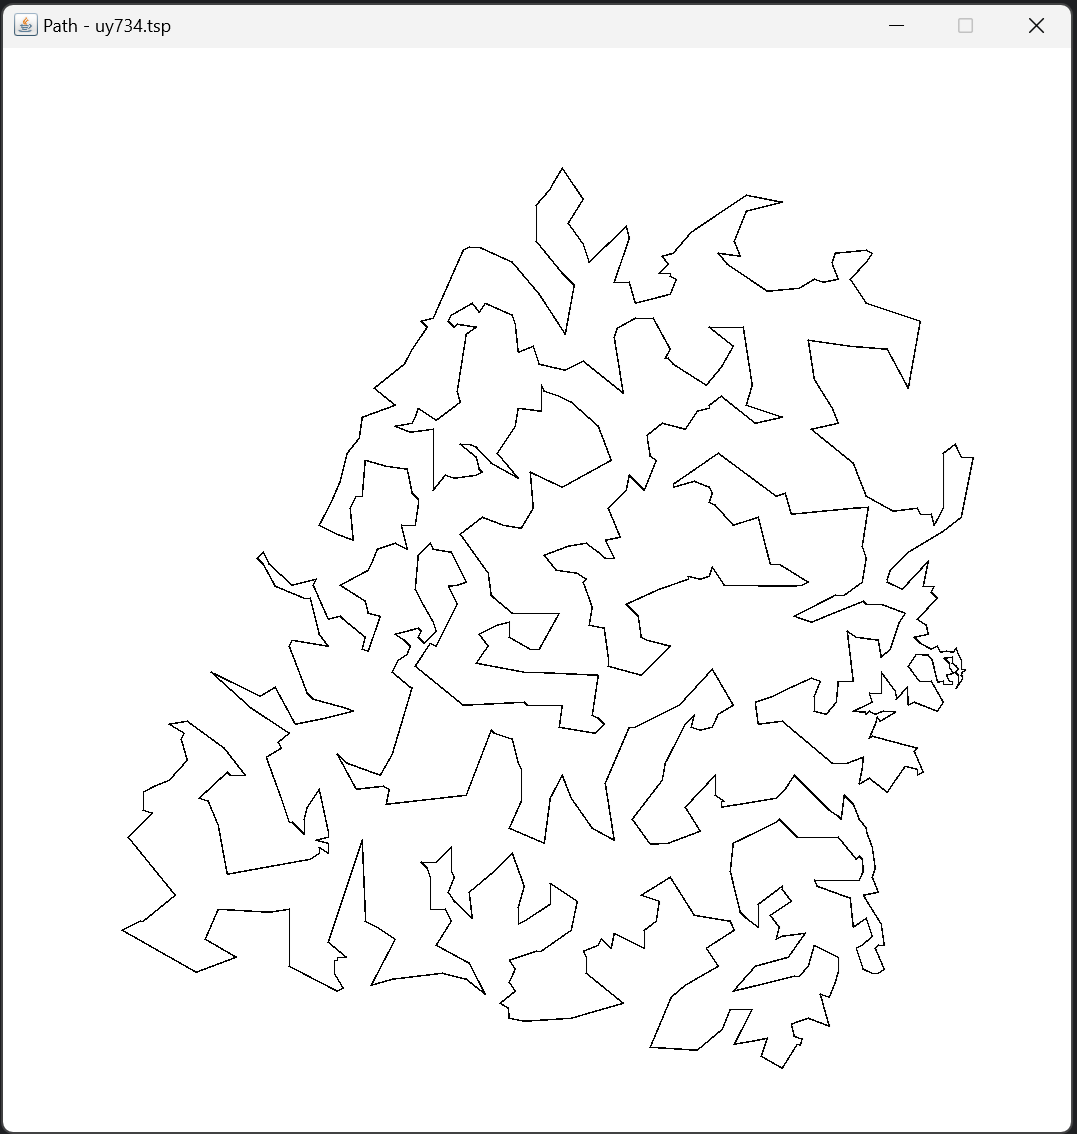
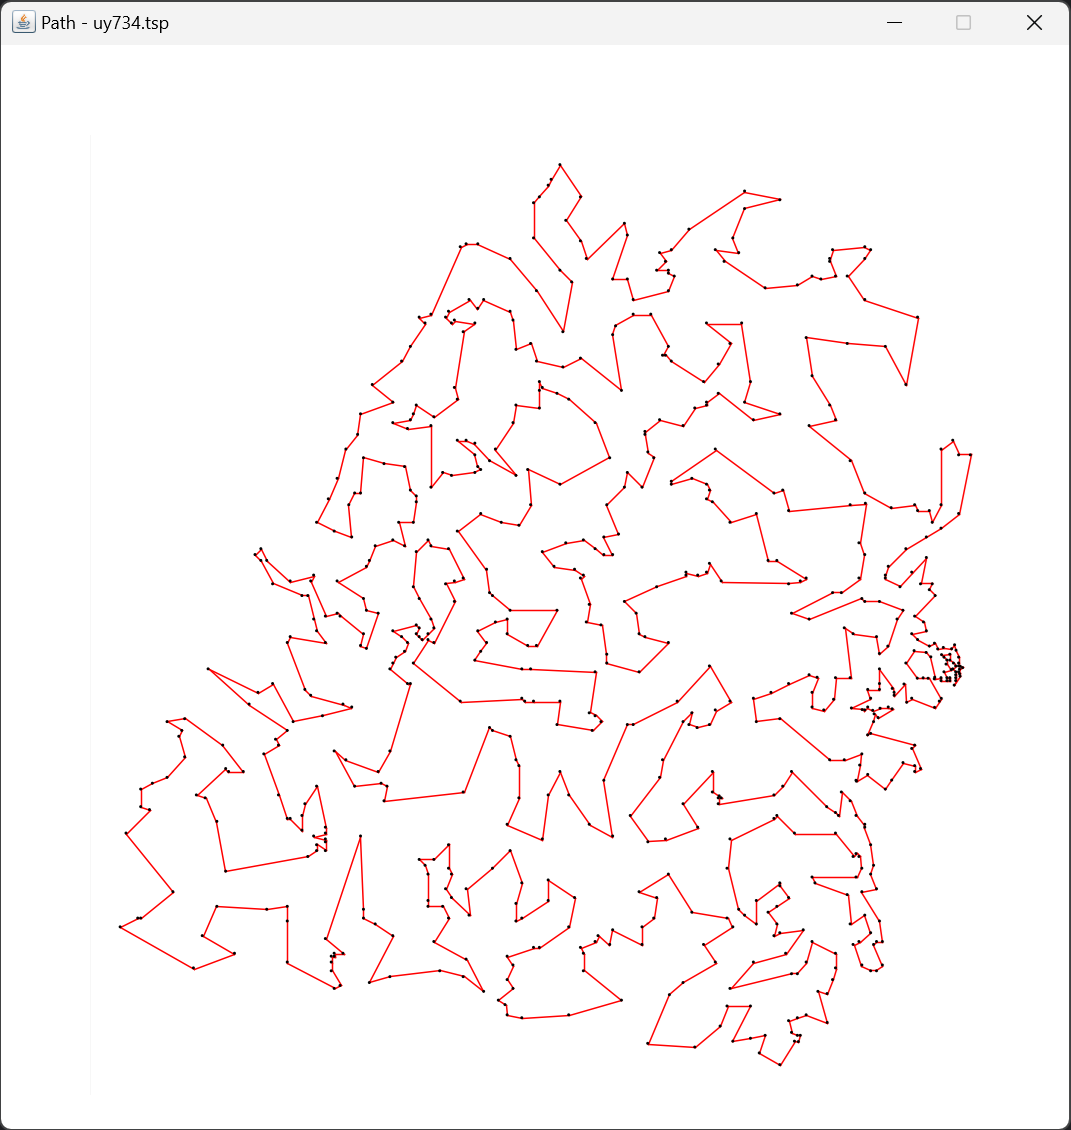
necessary improvements

diff --git a/VisualisationPanel.java b/VisualisationPanel.java
@@ -1,6 +1,7 @@
 
 
-import java.awt.Graphics;
+import java.awt.*;
+import java.awt.geom.Ellipse2D;
 import javax.swing.JPanel;
 
 public class VisualisationPanel extends JPanel {
@@ -9,55 +10,59 @@ public class VisualisationPanel extends JPanel {
 	protected float yCoordinateMinValue;
 	protected int gapBetweenPanelAndVisualisation;
 	protected float resizingValue;
-	protected String visualisationType;
+	protected String title;
 	VisualisationPanel(VisualisationPack visualisationPack){
 		this.locationArray = visualisationPack.locationArray;
 		this.xCoordinateMinValue = visualisationPack.xCoordinateMinValue;
 		this.yCoordinateMinValue = visualisationPack.yCoordinateMinValue;
 		this.gapBetweenPanelAndVisualisation = visualisationPack.gapBetweenPanelAndVisualisation;
-		this.visualisationType = visualisationPack.visualisationType;
+		this.title = visualisationPack.title;
 		this.resizingValue = visualisationPack.resizingValue;
 	}
-    
-    @Override
-    public void paint(Graphics g) {
-    	if(visualisationType.equals("Locations - " + AppInterface.fileName)) {
-    		int gapForOval = gapBetweenPanelAndVisualisation - 1;
-    		int xCoordinate;
-    		int yCoordinate;
-    		for(Location location: locationArray) {
-        		xCoordinate = Math.round((location.xCoordinate - xCoordinateMinValue) / resizingValue);
-        		yCoordinate = Math.round((location.yCoordinate - yCoordinateMinValue) / resizingValue);
-        		g.fillOval(xCoordinate + gapForOval, yCoordinate + gapForOval, 2, 2);
-        	}
-    	}
-    	else if(visualisationType.equals("Path - " + AppInterface.fileName)) {
-    		int xCoordOfFirstLocation;
-    		int yCoordOfFirstLocation;
-    		int xCoordOfSecondLocation;
-    		int yCoordOfSecondLocation;
-    		for(int i = 0; i < locationArray.length - 1; i++) {
-    			xCoordOfFirstLocation = Math.round((locationArray[i].xCoordinate - xCoordinateMinValue) / resizingValue);
-    			yCoordOfFirstLocation = Math.round((locationArray[i].yCoordinate - yCoordinateMinValue) / resizingValue);
-    			xCoordOfSecondLocation = Math.round((locationArray[i + 1].xCoordinate - xCoordinateMinValue) / resizingValue);
-    			yCoordOfSecondLocation = Math.round((locationArray[i + 1].yCoordinate - yCoordinateMinValue) / resizingValue);
-        		g.drawLine(
-        		xCoordOfFirstLocation + gapBetweenPanelAndVisualisation,
-        		yCoordOfFirstLocation + gapBetweenPanelAndVisualisation,
-        		xCoordOfSecondLocation + gapBetweenPanelAndVisualisation,
-        		yCoordOfSecondLocation + gapBetweenPanelAndVisualisation
-        		);
-        	}
-    		xCoordOfFirstLocation = Math.round((locationArray[locationArray.length - 1].xCoordinate - xCoordinateMinValue) / resizingValue);
-			yCoordOfFirstLocation = Math.round((locationArray[locationArray.length - 1].yCoordinate - yCoordinateMinValue) / resizingValue);
-			xCoordOfSecondLocation = Math.round((locationArray[0].xCoordinate - xCoordinateMinValue) / resizingValue);
-			yCoordOfSecondLocation = Math.round((locationArray[0].yCoordinate - yCoordinateMinValue) / resizingValue);
-			g.drawLine(
-	        xCoordOfFirstLocation + gapBetweenPanelAndVisualisation,
-	        yCoordOfFirstLocation + gapBetweenPanelAndVisualisation,
-	        xCoordOfSecondLocation + gapBetweenPanelAndVisualisation,
-	        yCoordOfSecondLocation + gapBetweenPanelAndVisualisation
-	        );
-    	}
-    }
+
+	@Override
+	public void paint(Graphics g) {
+		super.paint(g); // Ensure the background is cleared
+
+		// Use Graphics2D for more control
+		Graphics2D g2 = (Graphics2D) g;
+		g2.setRenderingHint(RenderingHints.KEY_ANTIALIASING, RenderingHints.VALUE_ANTIALIAS_ON);
+
+		// Set the background to white
+		g2.setColor(Color.WHITE);
+		g2.fillRect(0, 0, getWidth(), getHeight());
+
+		// Draw lines in red
+		g2.setColor(Color.RED);
+		for (int i = 0; i < locationArray.length - 1; i++) {
+			drawScaledLine(g2, locationArray[i], locationArray[i + 1]);
+		}
+		// Connect last point back to the first
+		drawScaledLine(g2, locationArray[locationArray.length - 1], locationArray[0]);
+
+		// Draw dots in black
+		g2.setColor(Color.BLACK);
+		for (Location location : locationArray) {
+			drawScaledDot(g2, location);
+		}
+	}
+
+	private void drawScaledLine(Graphics2D g2, Location start, Location end) {
+		int x1 = Math.round((start.xCoordinate - xCoordinateMinValue) / resizingValue) + gapBetweenPanelAndVisualisation;
+		int y1 = Math.round((start.yCoordinate - yCoordinateMinValue) / resizingValue) + gapBetweenPanelAndVisualisation;
+		int x2 = Math.round((end.xCoordinate - xCoordinateMinValue) / resizingValue) + gapBetweenPanelAndVisualisation;
+		int y2 = Math.round((end.yCoordinate - yCoordinateMinValue) / resizingValue) + gapBetweenPanelAndVisualisation;
+
+		g2.drawLine(x1, y1, x2, y2);
+	}
+
+	private void drawScaledDot(Graphics2D g2, Location location) {
+		float x = (location.xCoordinate - xCoordinateMinValue) / resizingValue + gapBetweenPanelAndVisualisation - 1.25f;
+		float y = (location.yCoordinate - yCoordinateMinValue) / resizingValue + gapBetweenPanelAndVisualisation - 1.25f;
+
+		g2.fill(new Ellipse2D.Float(x, y, 2f, 2f)); // Use 2.5x2.5 dots
+	}
+
+
+
 }

diff --git a/AppInterface.java b/AppInterface.java
@@ -19,6 +19,10 @@ import javax.swing.JOptionPane;
 import javax.swing.JPanel;
 import javax.swing.JScrollPane;
 import javax.swing.JTextArea;
+import java.awt.Component;
+import java.awt.Container;
+import java.awt.FocusTraversalPolicy;
+
 
 public class AppInterface extends JFrame implements Runnable, ActionListener {
     protected JButton searchFileButton;
@@ -51,6 +55,33 @@ public class AppInterface extends JFrame implements Runnable, ActionListener {
         setup();
         setTimer();
         setVisible(true);
+        setFocusTraversalPolicy(new FocusTraversalPolicy() {
+            @Override
+            public Component getComponentAfter(Container focusCycleRoot, Component aComponent) {
+                return null; // Prevents focus traversal
+            }
+
+            @Override
+            public Component getComponentBefore(Container focusCycleRoot, Component aComponent) {
+                return null; // Prevents focus traversal
+            }
+
+            @Override
+            public Component getFirstComponent(Container focusCycleRoot) {
+                return null; // No initial focus
+            }
+
+            @Override
+            public Component getLastComponent(Container focusCycleRoot) {
+                return null; // No initial focus
+            }
+
+            @Override
+            public Component getDefaultComponent(Container focusCycleRoot) {
+                return null; // No default component
+            }
+        });
+
     }
 
     public void setup(){
@@ -74,6 +105,8 @@ public class AppInterface extends JFrame implements Runnable, ActionListener {
         JScrollPane outputScrollPane = new JScrollPane(output);
         outputScrollPane.setBounds(0, 300, 537, 164);
         add(outputScrollPane);
+        getRootPane().requestFocusInWindow();
+
     }
 
     public boolean doesFilePathExist(){
@@ -125,10 +158,8 @@ public class AppInterface extends JFrame implements Runnable, ActionListener {
 			    							  fileReader.yCoordinateMinValue,
 			    							  fileReader.xCoordMaxDistBetweenLocations,
 			    							  fileReader.yCoordMaxDistBetweenLocations,
-			    							  "Locations - " + fileName,
+			    							  "Path - " + fileName,
 			    							  locationArray);
-    	new VisualisationFrame(visualisationPack);
-    	visualisationPack.visualisationType = "Path - " + fileName;
     	new VisualisationFrame(visualisationPack);
     }
 

diff --git a/VisualisationPack.java b/VisualisationPack.java
@@ -14,16 +14,16 @@ public class VisualisationPack{
 	protected int xAxisFrameLength;
 	protected int yAxisFrameLength;
 	protected float resizingValue;
-	protected String visualisationType;
+	protected String title;
 	protected Location[] locationArray;
 	VisualisationPack(float xCoordinateMinValue, float yCoordinateMinValue,
 	float xCoordMaxDistBetweenLocations, float yCoordMaxDistBetweenLocations,
-	String visualisationType, Location[] locationArray){
+	String title, Location[] locationArray){
 		this.xCoordinateMinValue = xCoordinateMinValue;
 		this.yCoordinateMinValue = yCoordinateMinValue;
 		this.xCoordMaxDistBetweenLocations = xCoordMaxDistBetweenLocations;
 		this.yCoordMaxDistBetweenLocations = yCoordMaxDistBetweenLocations;
-		this.visualisationType = visualisationType;
+		this.title = title;
 		this.locationArray = locationArray;
 		visualisationSizeCalculator();
 		calculateResizingValue();

diff --git a/VisualisationFrame.java b/VisualisationFrame.java
@@ -12,7 +12,7 @@ public class VisualisationFrame extends JFrame {
 	protected int xAxisFrameLength;
 	protected int yAxisFrameLength;
 	VisualisationFrame(VisualisationPack visualisationPack){
-        super(visualisationPack.visualisationType);
+        super(visualisationPack.title);
         this.gapBetweenFrameAndPanel = visualisationPack.gapBetweenFrameAndPanel;
         this.gapBetweenPanelAndVisualisation = visualisationPack.gapBetweenPanelAndVisualisation;
         this.xAxisPanelLength = visualisationPack.xAxisPanelLength;

diff --git a/readme.md b/readme.md
@@ -20,7 +20,6 @@ The user interface includes the following features:
 
 - **Order of Locations**: Displayed in the text box and saved as a .txt file.
 - **Graphical Visualisation of Path**: The computed path is displayed in a separate window, showing the approximate shortest route.
-- **All Locations View**: A separate window shows all the locations from the provided file.
 
 
 ## 4. Input File Format
@@ -42,8 +41,6 @@ The application accepts either a .tsp or .txt file with the following structure:
 **Accuracy**: This enhanced Nearest Neighbour algorithm achieved a path length of 87,962.81, which is approximately 11.2% longer than the optimal path but significantly shorter than the paths produced by basic heuristic algorithms.
 
 **Speed**: The algorithm completed the calculation in 442 milliseconds.
-
-![Locations Visualisation](./readme-images/locations.png)
 
 ![Path Visualisation](./readme-images/path.png)
 Check output.txt for the detailed order of locations computed by the algorithm.
